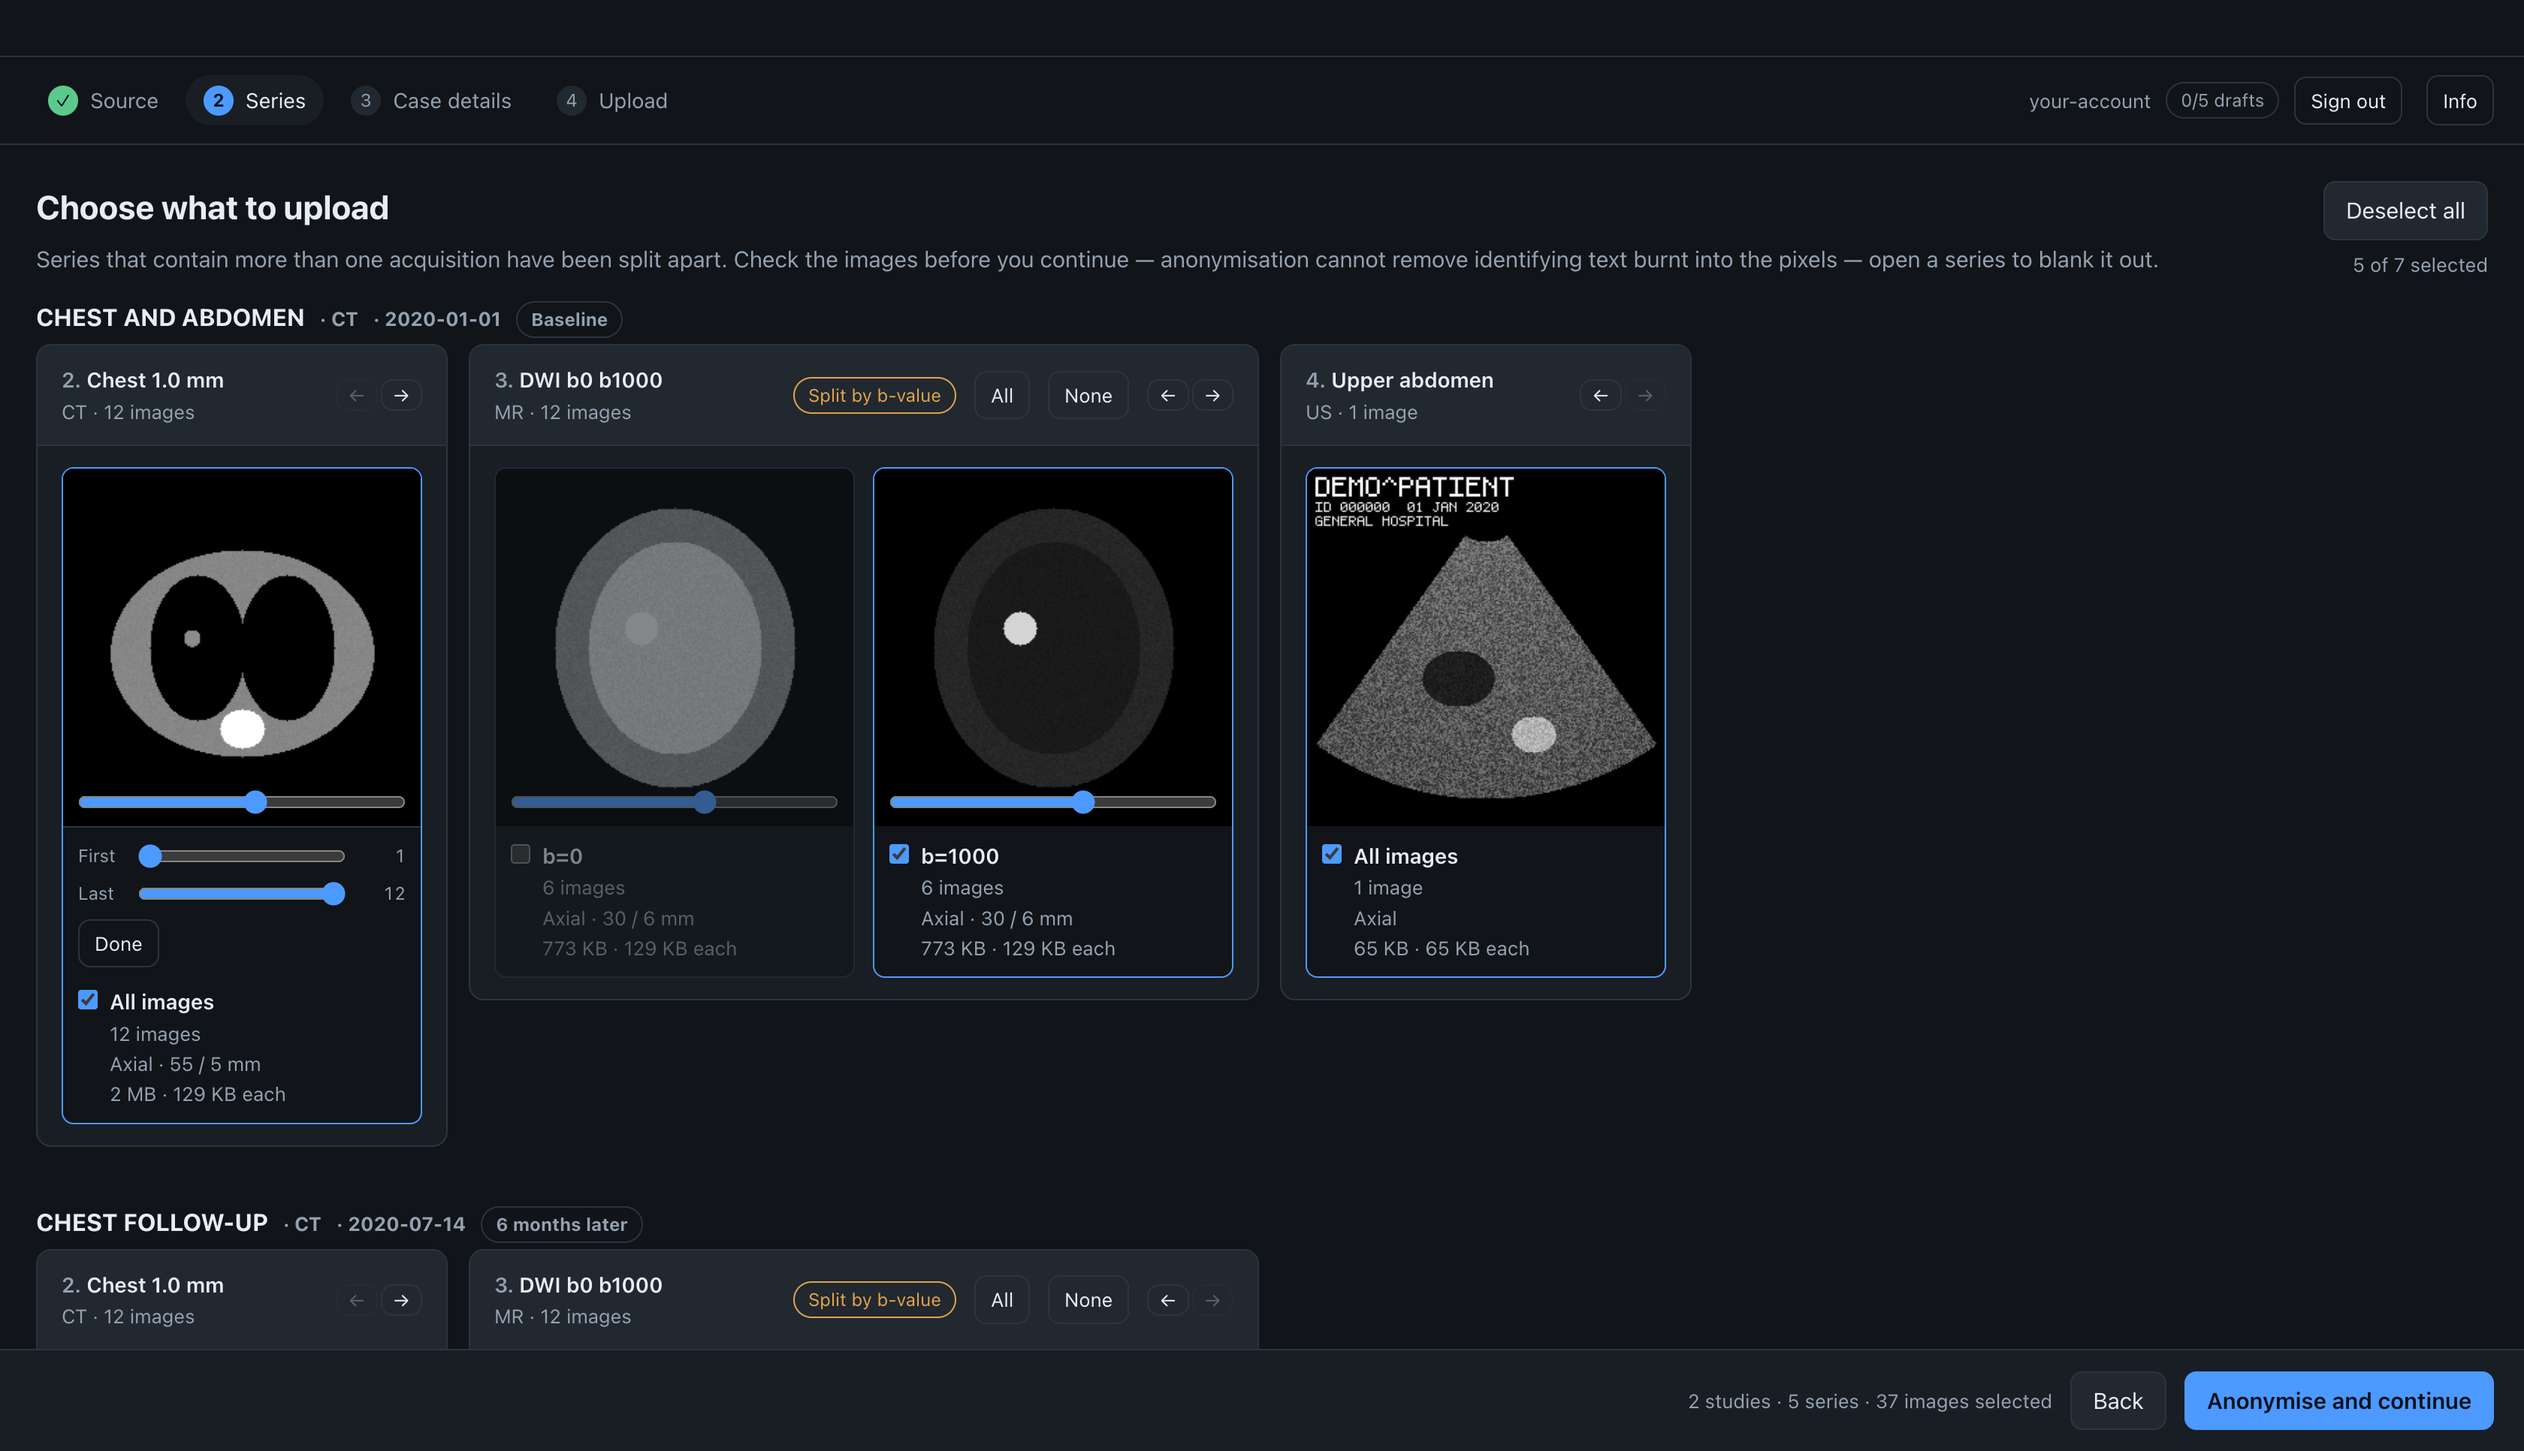
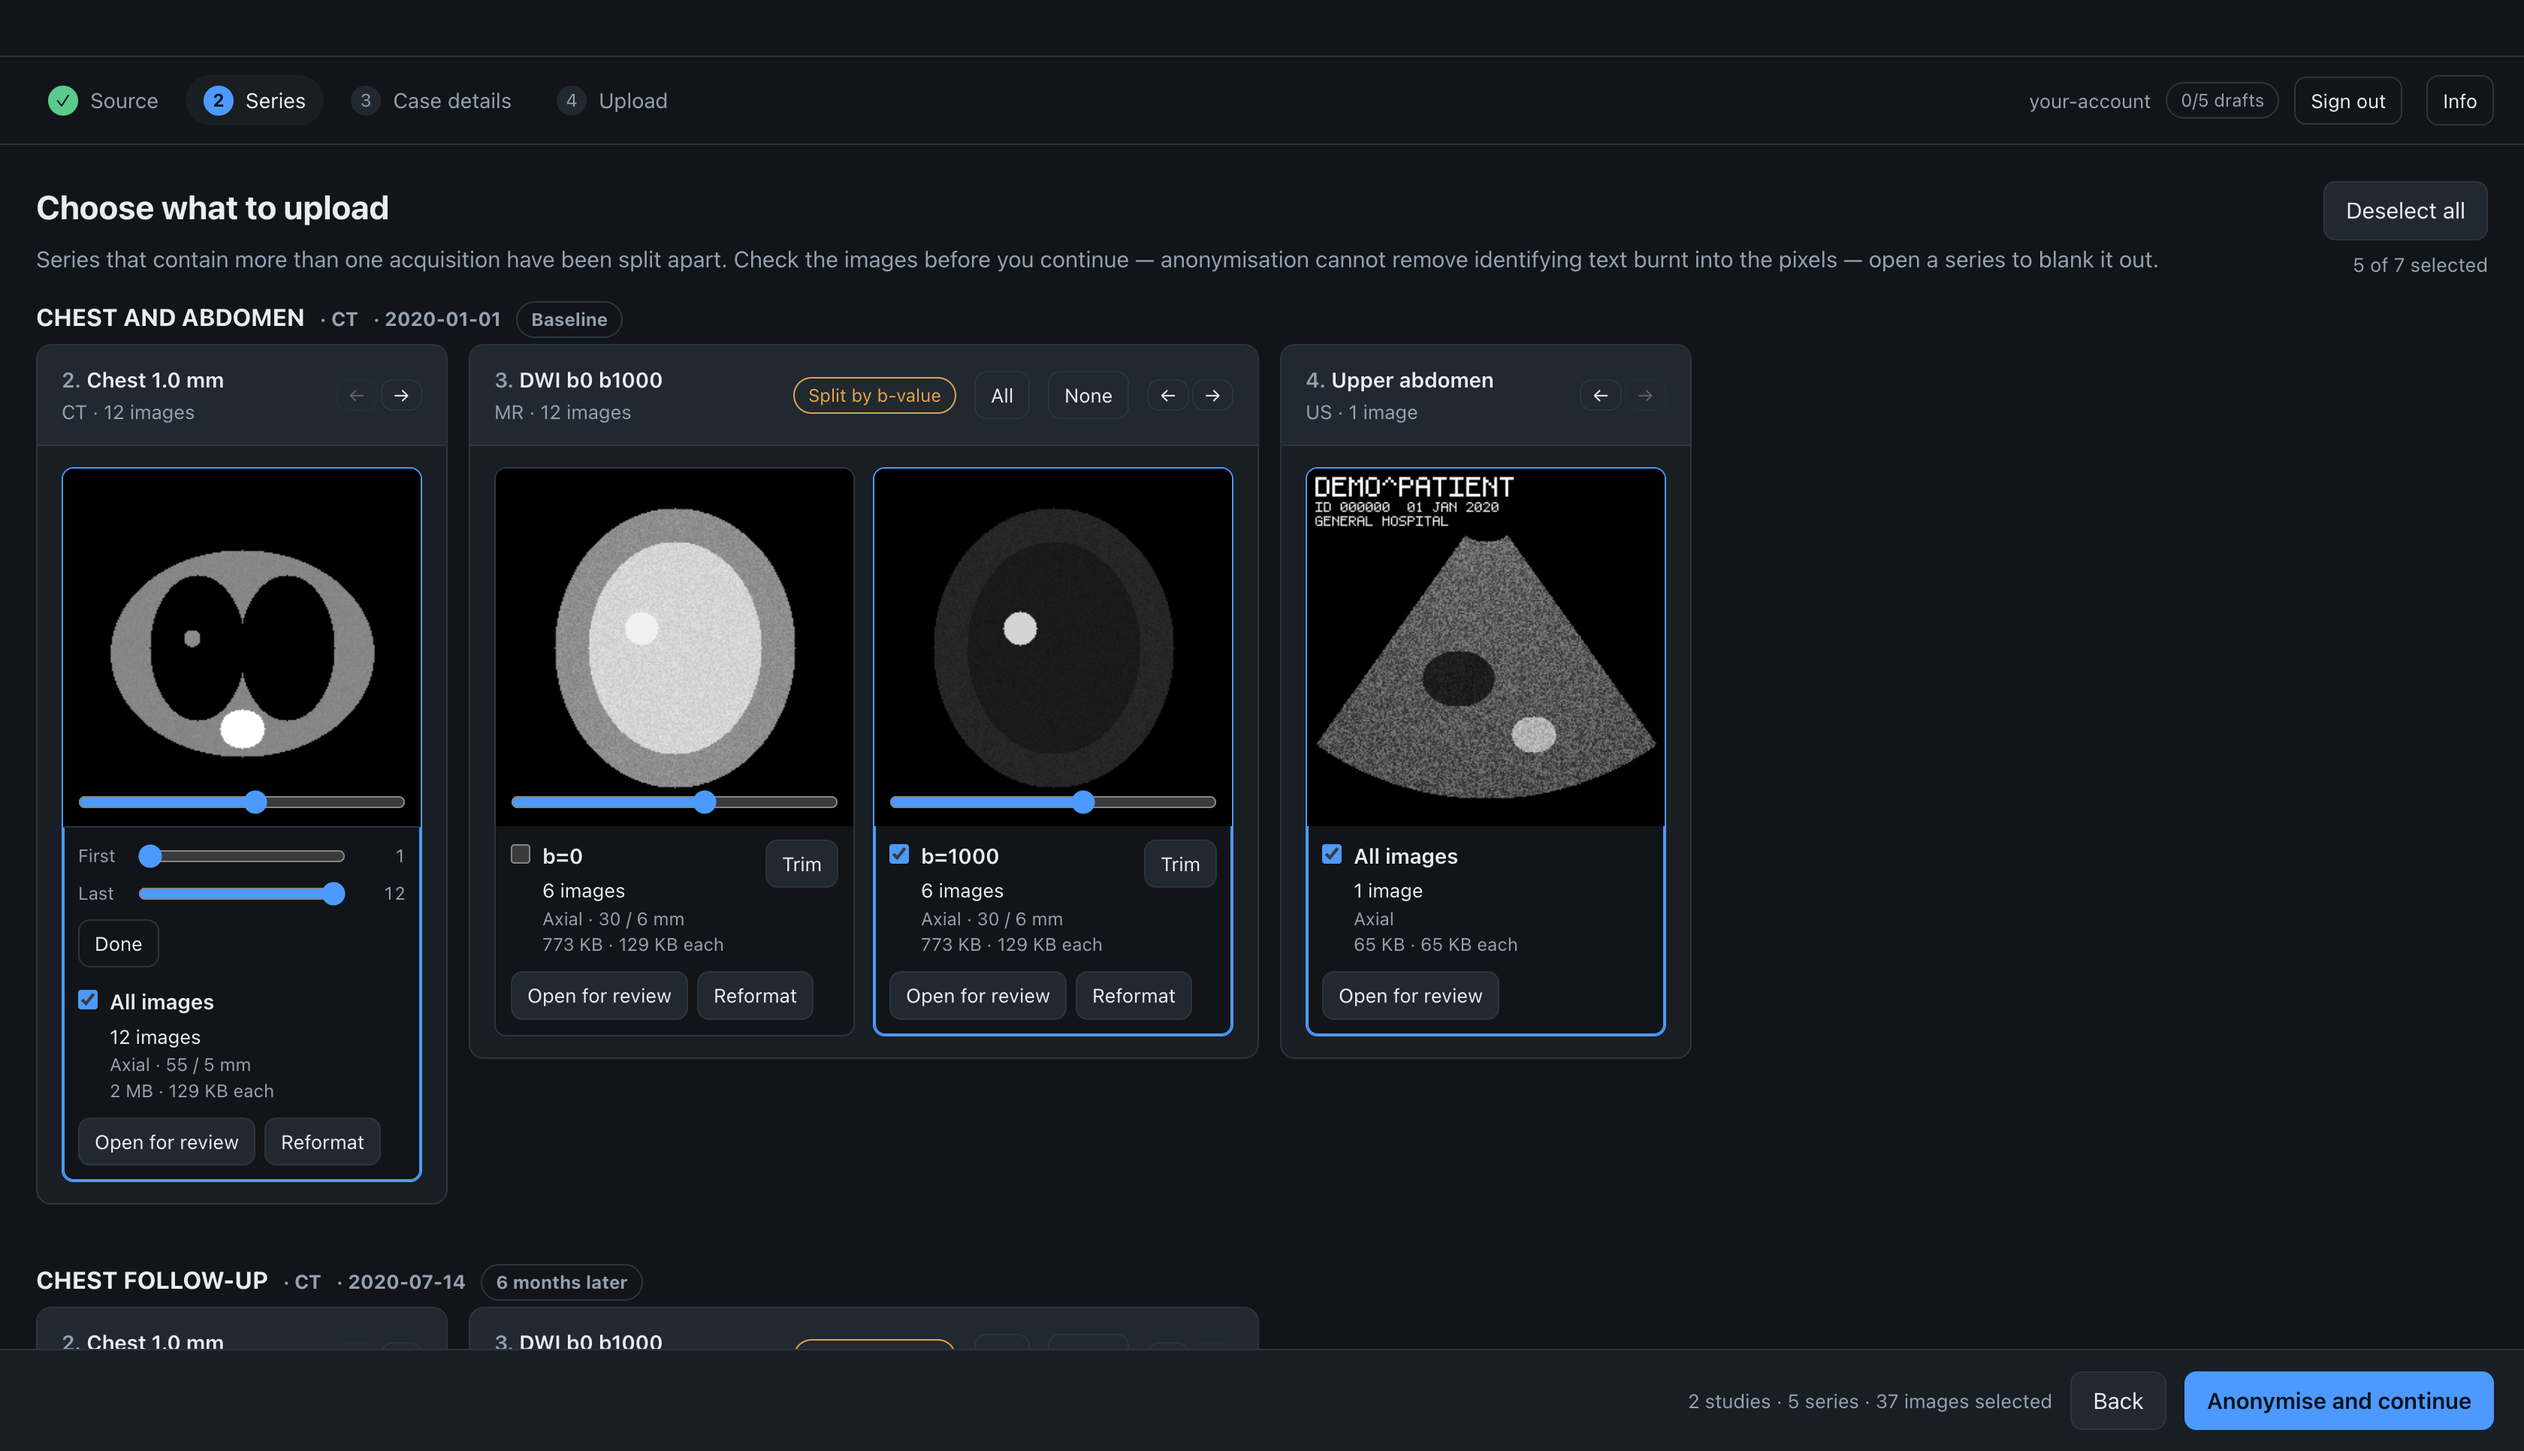
Show every series at full brightness, with its buttons under it
Three things about the picker card, all of which worked against the one
instruction this screen gives: open a series and look at it.

Open for review and Reformat were centred over the preview at zero opacity
until the pointer was on the card. That made them invisible to anyone
following a screenshot — none of the ten in docs/ had ever shown them, since
the driver sends a mouseLeave before every capture — and, once found, they
covered the middle of the image. They are a row under the card now, always
there. The check before anonymising names Open for review by name; a button
nobody can see is a step nobody takes.

An unticked card was drawn at half opacity. That dimmed the picture of the
series least likely to have been opened, and a burnt-in banner is usually the
reason to leave one out rather than something noticed afterwards. Ticked reads
on the border and the box instead; the image is at full brightness either way.

The card said its name and then four identical muted lines, so the image count
that decides whether a series is worth uploading sat at the weight of the codec
it happens to be stored in. Three sizes now: the name, the count, and the rest.

diff --git a/src/renderer/src/components/StackCard.tsx b/src/renderer/src/components/StackCard.tsx
@@ -101,26 +101,6 @@ export function StackCard({ stack, onToggle, onTrim, onOpen, onReformat }: Props
           <canvas ref={canvasRef} className={outsideTrim ? 'dropped' : undefined} />
         )}
         {outsideTrim && <div className="dropped-tag">not uploaded</div>}
-        {!error && (
-          <div className="stack-actions">
-            <button
-              className="small"
-              title="Open for review — blank out burnt-in text and set the contrast"
-              onClick={() => onOpen(stack)}
-            >
-              Open for review
-            </button>
-            {stack.slices.length > 2 && !stack.unsupported && (
-              <button
-                className="small"
-                title="Cut this series along another plane, or flatten slabs of it into MIP, MinIP or mean images"
-                onClick={() => onReformat(stack)}
-              >
-                Reformat
-              </button>
-            )}
-          </div>
-        )}
         {stack.slices.length > 1 && (
           <input
             type="range"
@@ -182,7 +162,7 @@ export function StackCard({ stack, onToggle, onTrim, onOpen, onReformat }: Props
         />
         <label htmlFor={stack.id}>
           <h3>{stack.label}</h3>
-          <div className="muted small">
+          <div className="stack-facts">
             {kept < stack.slices.length ? (
               <>
                 {kept} of {stack.slices.length} images
@@ -197,15 +177,15 @@ export function StackCard({ stack, onToggle, onTrim, onOpen, onReformat }: Props
             {maskCount > 0 && <> · {maskCount} blanked</>}
             {stack.window && <> · contrast set</>}
           </div>
-          {geometry !== '' && <div className="muted small">{geometry}</div>}
-          <div className="muted small">
+          {geometry !== '' && <div className="stack-detail">{geometry}</div>}
+          <div className="stack-detail">
             {formatSize(stack.bytes)} · {perImage(stack.bytes, stack.slices.length)} each
           </div>
           {/* Only when there is something to say. Plain samples are what most
               exports are, and a badge on every card would cost a line to tell
               you nothing; a codec named here is the series that will grow if
               you blank or crop it. */}
-          {stack.compression !== null && <div className="small codec">{stack.compression}</div>}
+          {stack.compression !== null && <div className="stack-detail codec">{stack.compression}</div>}
         </label>
         {stack.slices.length > 2 && !showTrim && !stack.unsupported && (
           <button
@@ -217,6 +197,32 @@ export function StackCard({ stack, onToggle, onTrim, onOpen, onReformat }: Props
           </button>
         )}
       </div>
+
+      {/* The two things this screen asks of everyone, spelled out on the card
+          rather than waiting under the pointer: the check before anonymising
+          names Open for review by name, and a button nobody can see is one
+          nobody is doing. Withheld only when the preview failed, since there
+          is nothing to open. */}
+      {!error && (
+        <div className="stack-actions">
+          <button
+            className="small"
+            title="Open for review — blank out burnt-in text and set the contrast"
+            onClick={() => onOpen(stack)}
+          >
+            Open for review
+          </button>
+          {stack.slices.length > 2 && !stack.unsupported && (
+            <button
+              className="small"
+              title="Cut this series along another plane, or flatten slabs of it into MIP, MinIP or mean images"
+              onClick={() => onReformat(stack)}
+            >
+              Reformat
+            </button>
+          )}
+        </div>
+      )}
 
       {/* Says what the failed preview above does not: this one is not merely
           unviewable here, it cannot go to Radiopaedia at all. */}

diff --git a/src/renderer/src/styles.css b/src/renderer/src/styles.css
@@ -161,11 +161,14 @@ h3 { font-size: 14px; margin: 0; font-weight: 600; }
   border-radius: 8px;
   overflow: hidden;
   background: var(--bg);
-  opacity: 0.5;
-  transition: opacity 0.12s, border-color 0.12s;
+  transition: border-color 0.12s, box-shadow 0.12s;
 }
-.stack.on { opacity: 1; border-color: var(--accent); }
-.stack.blocked { opacity: 0.85; border-color: color-mix(in srgb, var(--warn) 40%, transparent); }
+/* Ticked reads on the border, never on the image. Half opacity on an unticked
+   card dimmed the one thing this screen exists to have looked at: a series
+   nobody has selected is the one most likely to still be carrying a banner,
+   and the decision to leave it out is usually made from the picture. */
+.stack.on { border-color: var(--accent); box-shadow: inset 0 0 0 1px var(--accent); }
+.stack.blocked { border-color: color-mix(in srgb, var(--warn) 40%, transparent); }
 .stack-blocked { padding: 0 10px 10px; font-size: 12px; line-height: 1.4; color: var(--warn); }
 
 .stack-preview { position: relative; aspect-ratio: 1; background: #000; display: grid; place-items: center; }
@@ -177,6 +180,12 @@ h3 { font-size: 14px; margin: 0; font-weight: 600; }
 }
 .stack-meta { display: flex; align-items: flex-start; gap: 8px; padding: 9px 10px; }
 .stack-meta label { flex: 1; cursor: pointer; }
+/* Three sizes where there was one. The card carried its name and then four
+   identical muted lines, so the count that decides whether a series is worth
+   uploading sat at the weight of the codec it happens to be stored in. */
+.stack-meta h3 { margin-bottom: 2px; }
+.stack-facts { font-size: 13px; }
+.stack-detail { font-size: 12px; line-height: 1.45; color: var(--muted); }
 .stack-meta input[type='checkbox'] { width: auto; margin: 3px 0 0; accent-color: var(--accent); }
 
 .rows { display: grid; gap: 14px; }
@@ -243,24 +252,13 @@ label.field { display: grid; gap: 5px; font-size: 13px; color: var(--muted); }
 
 .trim-toggle { flex: none; align-self: flex-start; padding: 3px 9px; font-size: 12px; }
 .trim-toggle.on { color: var(--warn); border-color: var(--warn); }
-/* The toggle is a quiet affordance until the card is hovered or already trimmed. */
-.stack .trim-toggle { opacity: 0; transition: opacity 0.12s; }
-.stack:hover .trim-toggle,
-.stack .trim-toggle:focus-visible,
-.stack .trim-toggle.on { opacity: 1; }
 
-/* The buttons over the preview are quiet until the card is hovered, like Trim. */
-.stack-actions {
-  position: absolute; left: 50%; top: 50%; transform: translate(-50%, -50%);
-  display: grid; gap: 6px; justify-items: center;
-  opacity: 0; transition: opacity 0.12s;
-}
-.stack-actions button {
-  white-space: nowrap;
-  background: color-mix(in srgb, var(--bg) 78%, transparent);
-}
-.stack:hover .stack-actions,
-.stack .stack-actions:focus-within { opacity: 1; }
+/* Under the image and always there. These were centred over the preview and
+   invisible until the pointer was on the card, which hid them from anyone
+   reading a screenshot and covered the anatomy of anyone who found them — on
+   the screen whose whole instruction is to open a series and look at it. */
+.stack-actions { display: flex; gap: 6px; padding: 0 10px 10px; }
+.stack-actions button { white-space: nowrap; }
 
 .viewer-backdrop {
   position: fixed; inset: 0; z-index: 50;

diff --git a/docs/guide/choose.md b/docs/guide/choose.md
@@ -65,7 +65,21 @@ Under the preview, in the order that decides whether a series is worth uploading
   the series that will grow if you [blank or crop](/guide/review) it.
 
 None of it is written over the image. The top corners of a thumbnail are where patient
-banners sit, and this is the app that must not cover one up.
+banners sit, and this is the app that must not cover one up — which is why **Open for
+review** and **Reformat** are a row of buttons under the card rather than a pair centred
+over the picture.
+
+Both are there whether or not the pointer is on the card. The check before anonymising asks
+you to open anything that could carry text, and a button that appears only under the pointer
+is one that is not there at all for a reader following a screenshot, or for anyone tabbing
+through.
+
+## What a ticked card looks like
+
+A stack that is going up carries an accent border and a ticked box. **The picture is at full
+brightness either way.** An unticked series is the one least likely to have been opened and
+looked at, so it is the last thing that should be dimmed: the banner you need to notice is
+often the reason to leave a series out, and half opacity is what stops it being read at all.
 
 ## Defaults you can leave alone
 

diff --git a/docs/guide/review.md b/docs/guide/review.md
@@ -1,6 +1,7 @@
 # Erase, crop and set contrast
 
-**Open for review** on any stack shows it full size with a scrubber through every image.
+**Open for review**, under any card in the strip, shows that stack full size with a scrubber
+through every image.
 The wheel and the trackpad move through the stack as well, and so do the left and right
 arrow keys — the slider is for jumping across a series, not for reading through one.
 
